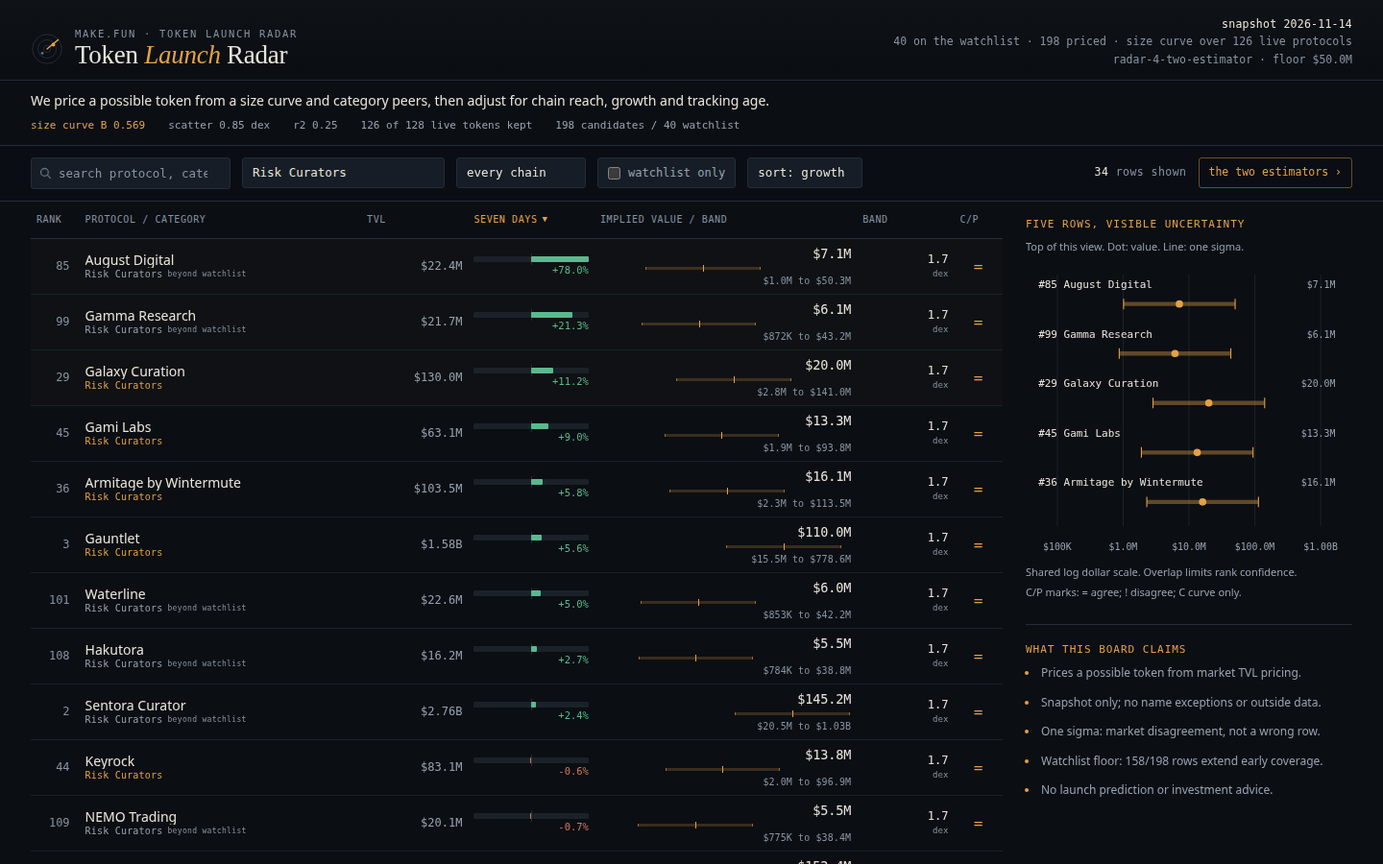
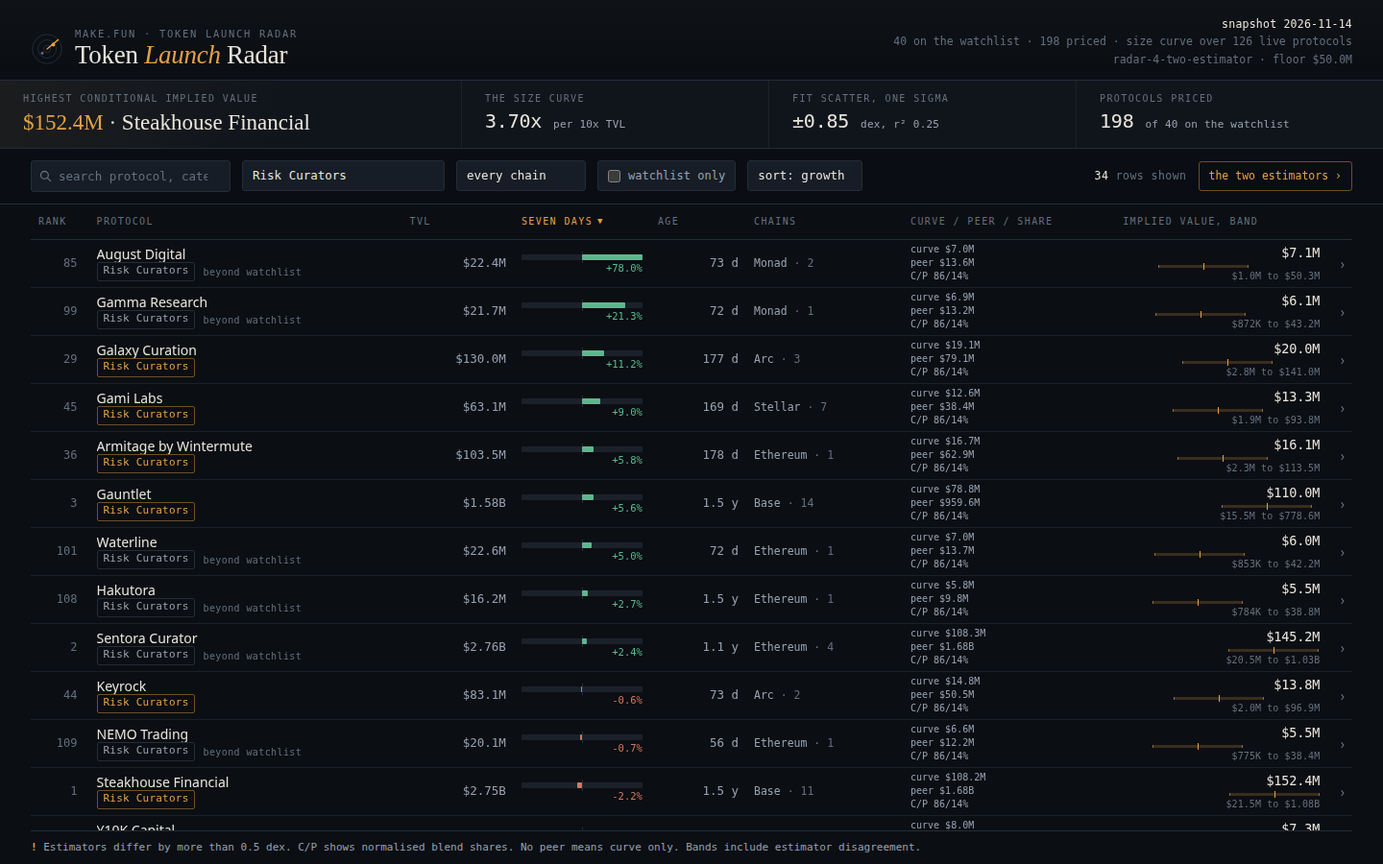
Restore radar-4: the polish measured worse with the judge

diff --git a/dashboard/app.js b/dashboard/app.js
@@ -105,7 +105,6 @@
     growth: function (r) { return r.change_7d === null ? -9999 : r.change_7d; },
     age: function (r) { return r.age_days === null ? -1 : r.age_days; },
     terms: function (r) { return terms(r); },
-    band: function (r) { return Math.log10(r.band_high / Math.max(1, r.band_low)); },
     rank: function (r) { return r.rank; },
   };
 
@@ -157,6 +156,8 @@
 
   function rowHtml(row) {
     var chip = '<span class="chip' + (row.on_watchlist ? ' watch' : '') + '">' + esc(row.category || 'no category') + '</span>';
+    var chainCell = row.chains.length === 0 ? 'n/a'
+      : esc(row.chains[0]) + ' <span class="more">&middot; ' + row.chains.length + '</span>';
     return (
       '<tr data-slug="' + esc(row.slug) + '" tabindex="0">' +
       '<td class="rank">' + row.rank + '</td>' +
@@ -164,9 +165,11 @@
       (row.on_watchlist ? '' : '<span class="off">beyond watchlist</span>') + '</span></td>' +
       '<td class="num dim">' + esc(usd(row.tvl_usd)) + '</td>' +
       trendCell(row.change_7d) +
+      '<td class="num dim">' + esc(age(row.age_days)) + '</td>' +
+      '<td class="chaincell">' + chainCell + '</td>' +
+      '<td class="estimates"><span>curve ' + esc(usd(row.curve_value_usd)) + '</span><span>peer ' + (row.peer_value_usd === null ? 'n/a: curve only' : esc(usd(row.peer_value_usd))) + '</span><span>C/P ' + (100 * row.blend_weight_curve / (row.blend_weight_curve + row.blend_weight_peer)).toFixed(0) + '/' + (100 * row.blend_weight_peer / (row.blend_weight_curve + row.blend_weight_peer)).toFixed(0) + '%</span></td>' +
       valueCell(row) +
-      '<td class="num band-width">' + SORTS.band(row).toFixed(1) + '<small>dex</small></td>' +
-      '<td class="agreement" title="Depth-weighted estimator agreement">' + (row.estimators_agree === null ? 'C' : row.estimators_agree ? '=' : '!') + '</td>' +
+      '<td class="chev">&#8250;</td>' +
       '</tr>'
     );
   }
@@ -202,6 +205,7 @@
 
   function boardView() {
     var rows = visible();
+    var top = DATA.rows[0];
     var options = categories()
       .map(function (c) { return '<option value="' + esc(c) + '"' + (c === state.category ? ' selected' : '') + '>' + esc(c) + '</option>'; })
       .join('');
@@ -211,8 +215,16 @@
 
     var head = masthead(false) +
 
-      '<section class="method"><p>We price a possible token from a size curve and category peers, then adjust for chain reach, growth and tracking age.</p>' +
-      '<div class="fit-strip"><b>size curve B ' + FIT.b.toFixed(3) + '</b><span>scatter ' + FIT.scatter.toFixed(2) + ' dex</span><span>r2 ' + FIT.r2.toFixed(2) + '</span><span>' + FIT.n + ' of ' + FIT.first.n + ' live tokens kept</span><span>' + DATA.board_size + ' candidates / ' + DATA.watchlist_size + ' watchlist</span></div></section>' +
+      '<section class="figures">' +
+      '<div class="figure lead"><span class="label">highest conditional implied value</span>' +
+      '<span class="value"><em>' + esc(usd(top.implied_value_usd)) + '</em> &middot; ' + esc(top.name) + '</span></div>' +
+      '<div class="figure"><span class="label">the size curve</span>' +
+      '<span class="value">' + mult(pow10(FIT.b)) + ' <small>per 10x TVL</small></span></div>' +
+      '<div class="figure"><span class="label">fit scatter, one sigma</span>' +
+      '<span class="value">&plusmn;' + FIT.scatter.toFixed(2) + ' <small>dex, r&sup2; ' + FIT.r2.toFixed(2) + '</small></span></div>' +
+      '<div class="figure"><span class="label">protocols priced</span>' +
+      '<span class="value">' + DATA.board_size + ' <small>of ' + DATA.watchlist_size + ' on the watchlist</small></span></div>' +
+      '</section>' +
 
       '<div class="toolbar">' +
       '<label class="field">' + searchGlyph() +
@@ -221,7 +233,7 @@
       '<select id="chain" aria-label="chain"><option value="all">every chain</option>' + chainOptions + '</select>' +
       '<label class="toggle' + (state.watchOnly ? ' on' : '') + '"><input type="checkbox" id="watch"' + (state.watchOnly ? ' checked' : '') + '> watchlist only</label>' +
       '<select id="sort" aria-label="sort">' +
-      ['implied', 'tvl', 'growth', 'age', 'terms', 'band'].map(function (k) {
+      ['implied', 'tvl', 'growth', 'age', 'terms'].map(function (k) {
         return '<option value="' + k + '"' + (state.sort === k ? ' selected' : '') + '>sort: ' + k + '</option>';
       }).join('') +
       '</select>' +
@@ -229,45 +241,18 @@
       '<a class="fitlink" href="#/fit">the two estimators &#8250;</a>' +
       '</div>' +
 
-      '<div class="board-layout"><div class="board">' + gridHtml(rows) + '</div><aside class="board-aside">' + bandChart(rows) + claimsView() + '</aside></div>' +
+      '<div class="board">' + gridHtml(rows) + '</div>' +
       noteView();
 
     return head;
   }
 
-  function bandChart(rows) {
-    var top = rows.slice(0, 5);
-    var lo = Math.floor(Math.min.apply(null, top.map(function (r) { return Math.log10(Math.max(1, r.band_low)); })));
-    var hi = Math.ceil(Math.max.apply(null, top.map(function (r) { return Math.log10(r.band_high); })));
-    if (!top.length) return '<h2>No rows to compare</h2>';
-    function x(v) { return 30 + (Math.log10(Math.max(1, v)) - lo) / Math.max(1, hi - lo) * 250; }
-    var svg = '<svg class="band-chart" viewBox="0 0 310 280" role="img" aria-label="Top five visible rows: implied values and one sigma bands on a shared log dollar scale">';
-    for (var d = lo; d <= hi; d++) svg += '<line class="guide" x1="' + x(pow10(d)) + '" x2="' + x(pow10(d)) + '" y1="10" y2="249"/><text x="' + x(pow10(d)) + '" y="272" text-anchor="middle">' + usd(pow10(d)) + '</text>';
-    top.forEach(function (r, i) {
-      var y = 23 + i * 47;
-      svg += '<text class="band-name" x="12" y="' + y + '">#' + r.rank + ' ' + esc(r.name) + '</text><text x="294" y="' + y + '" text-anchor="end">' + usd(r.implied_value_usd) + '</text>';
-      svg += '<line class="interval" x1="' + x(r.band_low) + '" x2="' + x(r.band_high) + '" y1="' + (y+15) + '" y2="' + (y+15) + '"/>';
-      [r.band_low, r.band_high].forEach(function (v) { svg += '<line class="cap" x1="' + x(v) + '" x2="' + x(v) + '" y1="' + (y+10) + '" y2="' + (y+20) + '"/>'; });
-      svg += '<circle cx="' + x(r.implied_value_usd) + '" cy="' + (y+15) + '" r="3.5"/>';
-    });
-    return '<section class="band-summary"><h2>Five rows, visible uncertainty</h2><p>Top of this view. Dot: value. Line: one sigma.</p>' + svg + '</svg><p>Shared log dollar scale. Overlap limits rank confidence.</p><p>C/P marks: = agree; ! disagree; C curve only.</p></section>';
-  }
-
-  function claimsView() {
-    return '<section class="claims"><h2>What this board claims</h2><ul>' +
-      '<li>Prices a possible token from market TVL pricing.</li>' +
-      '<li>Snapshot only; no name exceptions or outside data.</li>' +
-      '<li>One sigma: market disagreement, not a wrong row.</li>' +
-      '<li>Watchlist floor: ' + DATA.early_size + '/' + DATA.board_size + ' rows extend early coverage.</li>' +
-      '<li>No launch prediction or investment advice.</li></ul></section>';
-  }
-
   function noteView() {
     return '<section class="note"><div><h2>two estimates, one conditional value</h2>' +
       '<p>C = 10^(a + b log10 TVL). P = TVL times a category median market-cap/TVL multiple. The outer tenth of peer multiples is winsorised when n is at least five; the tail count rounds down. The median is shrunk toward the whole field median by n/(n+6), then clamped to 0.02 to 8.</p>' +
-      '<p>wC = nC/(nC+12); wP = nP/(nP+6). Base = 10^((wC log10 C + wP log10 P)/(wC+wP)). No category comparable means curve only. Depth = min(1, peers/8). Implied = round(base times chain times momentum times maturity).</p>' +
+      '<p>wC = nC/(nC+12); wP = nP/(nP+6). Base = 10^((wC log10 C + wP log10 P)/(wC+wP)). No category comparable means curve only. Implied = round(base times chain times momentum times maturity).</p>' +
       '<p>Chain = 1 + 0.03 min(chains-1,4). Momentum = 1 + 0.30 clamp(change_7d,-40,60)/100; missing growth is zero. Maturity = 0.75 + 0.25 min(age_days,1095)/1095; a missing date uses 240 days.</p></div>' +
-      '<div><h2>uncertainty and scope</h2><p>Sigma = sqrt(sd squared + (0.5 depth log10(C/P)) squared). Curve-only rows use sd. The band is round(implied / 10^sigma) to round(implied times 10^sigma). It is a model spread, not a calibrated probability or a price target.</p>' +
+      '<div><h2>uncertainty and scope</h2><p>Sigma = sqrt(sd squared + (0.5 log10(C/P)) squared). Curve-only rows use sd. The band is round(implied / 10^sigma) to round(implied times 10^sigma). It is a model spread, not a calibrated probability or a price target.</p>' +
       '<p>The snapshot records no token for these candidates. Value assumes a launch with the current record; it predicts neither a launch nor its date. The watchlist is a floor; independent candidates beyond it also rank.</p>' +
       '<p>Farm actions are category-based research plans. Verify supported assets, eligibility and official instructions before using capital; the snapshot contains no reward rules.</p><a href="#/fit">Inspect the two estimators and the fit &#8250;</a></div></section>';
   }
@@ -392,14 +377,14 @@
       '<tr class="before"><td class="name">before clipping</td><td class="num">' + FIT.first.a.toFixed(4) + ' + ' + FIT.first.b.toFixed(4) + 'x, &sigma; ' + FIT.first.scatter.toFixed(4) + '</td></tr>' +
       '</tbody></table>' +
       '<p class="slopesay">A protocol ten times larger is worth ' + slope.toFixed(2) + ' times as much on the fitted curve. Each extra dex of TVL adds ' + FIT.b.toFixed(3) + ' dex of fitted market cap.</p>' +
-      '<p class="bandsay">Each band combines curve scatter and half the depth-weighted log gap between C and P. Depth = min(1, peers/8). Greater disagreement widens the band. Curve-only rows use sd alone; the spread is not a calibrated probability.</p>' +
+      '<p class="bandsay">Each band combines curve scatter and half the log gap between C and P. Greater disagreement widens the band. Curve-only rows use sd alone; the spread is not a calibrated probability.</p>' +
       '</section>' +
       '</div>' +
 
       '<section class="fitwhy">' +
       '<h3>why use two estimators</h3>' +
       '<p>The curve measures the field\'s size relationship; the peer estimator measures category pricing without using that line. Combining them reduces dependence on either assumption and makes their disagreement visible.</p>' +
-      '<p>The raw depth weights are normalised to sum to one in log space. The detail shows C/P percentage shares for each row; a missing category sample gives the curve 100 per cent. The field median uses all eligible live points, including regression outliers.</p>' +
+      '<p>The raw depth weights are normalised to sum to one in log space. The board prints C/P percentage shares for each row; a missing category sample gives the curve 100 per cent. The field median uses all eligible live points, including regression outliers.</p>' +
       '</section>' +
       '</div>';
   }
@@ -443,7 +428,7 @@
       '<div class="detail-head">' +
       '<div><span class="rank-stamp">rank ' + row.rank + ' of ' + DATA.board_size + (row.on_watchlist ? ' &middot; on the watchlist' : ' &middot; beyond watchlist') + '</span>' +
       '<h2>' + esc(row.name) + '</h2>' +
-      '<div class="sub">' + esc(row.category || 'no category') + ' &middot; ' + '<span title="' + esc(row.chains.join(', ')) + '">' + esc(row.chains.slice(0, 3).join(', ') || 'chain not recorded') + (row.chains.length > 3 ? ' +' + (row.chains.length - 3) + ' more' : '') + '</span>' +
+      '<div class="sub">' + esc(row.category || 'no category') + ' &middot; ' + esc(row.chains.join(', ') || 'chain not recorded') +
       ' &middot; tracking starts <b>' + esc(row.listed_at || 'not recorded') + '</b> &middot; <b>' + esc(age(row.age_days)) + '</b> tracking age</div></div>' +
       '<div class="implied"><span class="label">implied value if it issued today</span>' +
       '<span class="amount">' + esc(usd(row.implied_value_usd)) + '</span>' +
@@ -454,13 +439,13 @@
       '<u style="left:' + pos(row.implied_value_usd).toFixed(1) + '%"></u></span>' +
       '<span class="ends"><span>' + esc(exactUsd(row.band_low)) + '</span><span class="mid">' + esc(exactUsd(row.implied_value_usd)) + ' implied</span><span>' + esc(exactUsd(row.band_high)) + '</span></span></div>' +
 
-      '<div class="estimator-pair"><div><span class="label">C: size curve</span><b>' + esc(usd(row.curve_value_usd)) + '</b><span>depth weight ' + row.blend_weight_curve.toFixed(4) + '; blend share ' + (100 * row.blend_weight_curve / (row.blend_weight_curve + row.blend_weight_peer)).toFixed(0) + '%</span></div>' +
-      '<div><span class="label">P: peer multiple</span><b>' + esc(usd(row.peer_value_usd)) + '</b><span>' + row.sample.comparables + ' comparables; weight ' + row.blend_weight_peer.toFixed(4) + '; multiple ' + row.category_multiplier.toFixed(4) + 'x; blend share ' + (100 * row.blend_weight_peer / (row.blend_weight_curve + row.blend_weight_peer)).toFixed(0) + '%</span></div></div>' +
-      '<p class="verdict">' + (row.estimators_agree === null ? 'No category comparable: the curve alone sets the base.' : row.estimators_agree ? 'The depth-weighted estimator gap is within ' + MODEL.agree_dex + ' dex.' : 'The depth-weighted estimator gap exceeds ' + MODEL.agree_dex + ' dex; it widens the band.') + '</p>' +
+      '<div class="estimator-pair"><div><span class="label">C: size curve</span><b>' + esc(usd(row.curve_value_usd)) + '</b><span>depth weight ' + row.blend_weight_curve.toFixed(4) + '</span></div>' +
+      '<div><span class="label">P: peer multiple</span><b>' + esc(usd(row.peer_value_usd)) + '</b><span>' + row.sample.comparables + ' comparables; weight ' + row.blend_weight_peer.toFixed(4) + '; multiple ' + row.category_multiplier.toFixed(4) + 'x</span></div></div>' +
+      '<p class="verdict">' + (row.estimators_agree === null ? 'No category comparable: the curve alone sets the base.' : row.estimators_agree ? 'The two estimators agree within 0.5 dex.' : 'The two estimators disagree by more than 0.5 dex; their gap widens the band.') + '</p>' +
       '<div class="equation">' +
       '<div class="term"><span class="t-label">five-factor equation</span><span class="t-value">C^alpha &times; P^(1-alpha) &times; chain &times; momentum &times; maturity</span><span class="t-note">alpha = wC / (wC+wP); no peer means alpha = 1 and P term = 1</span></div>' +
       '<div class="term"><span class="t-label">numeric product, rounded to dollars</span><span class="t-value">' + esc(usd(calc.base)) + ' &times; ' + row.chain_multiplier.toFixed(2) + ' &times; ' + row.growth_multiplier.toFixed(5) + ' &times; ' + row.maturity_multiplier.toFixed(5) + ' = ' + esc(usd(row.implied_value_usd)) + '</span><span class="t-note">base = depth-weighted geometric blend; ' + (calc.value === row.implied_value_usd ? 'matches board.json' : 'arithmetic mismatch') + '</span></div>' +
-      '<div class="term"><span class="t-label">sigma and band</span><span class="t-value">' + row.sigma_dex.toFixed(4) + ' dex; ' + esc(usd(row.band_low)) + ' to ' + esc(usd(row.band_high)) + '</span><span class="t-note">depth = min(1, peers/8); sigma = sqrt(sd^2 + (0.5 depth log10(C/P))^2); curve only: sd</span></div></div>' +
+      '<div class="term"><span class="t-label">sigma and band</span><span class="t-value">' + row.sigma_dex.toFixed(4) + ' dex; ' + esc(usd(row.band_low)) + ' to ' + esc(usd(row.band_high)) + '</span><span class="t-note">sigma = sqrt(sd^2 + (0.5 log10(C/P))^2); curve only: sd</span></div></div>' +
 
       '<div class="detail-grid">' +
       '<section class="panel"><h3>live protocols in this category, and where they sit</h3>' +
@@ -469,7 +454,7 @@
       '</tbody></table>' +
       (callout.length ? '<p class="callout">' + callout.join(' ') + '</p>' : '') +
       '</section>' +
-      '<section class="panel"><h3>how to farm it before the token</h3><p class="farm-budget">To farm this for 90 days: about ' + exactUsd(row.farm_capital_usd) + ' of capital and ' + exactUsd(row.farm_gas_90_day_usd) + ' of gas.</p><p class="budget-note">Capital stays at risk. Gas includes 13 weekly actions and an exit reserve. Total budget: ' + exactUsd(row['90_day_cost_usd']) + '.</p><ol class="steps">' + steps + '</ol></section>' +
+      '<section class="panel"><h3>how to farm it before the token</h3><ol class="steps">' + steps + '</ol></section>' +
       '</div>' +
       '<p class="footlink"><a href="#/fit">the size curve this row was priced on &#8250;</a></p>' +
       '</div>';
@@ -536,16 +521,17 @@
   function gridHtml(rows) {
     return (
       '<table class="grid"><colgroup>' +
-      '<col style="width:5%"><col style="width:29%"><col style="width:11%"><col style="width:13%">' +
-      '<col style="width:27%"><col style="width:10%"><col style="width:5%">' +
+      '<col style="width:52px"><col style="width:280px"><col style="width:100px"><col style="width:122px">' +
+      '<col style="width:86px"><col style="width:140px"><col style="width:190px"><col style="width:190px"><col style="width:22px">' +
       '</colgroup><thead><tr>' +
-      headerCell('rank', 'rank', 'rank') + '<th scope="col">protocol / category</th>' + headerCell('tvl', 'TVL') +
-      headerCell('growth', 'seven days') + headerCell('implied', 'implied value / band') + headerCell('band', 'band') + '<th scope="col">C/P</th>' +
+      headerCell('rank', 'rank', 'rank') + headerCell('implied', 'protocol') + headerCell('tvl', 'tvl') +
+      headerCell('growth', 'seven days') + headerCell('age', 'age') + '<th scope="col">chains</th>' +
+      '<th scope="col">curve / peer / share</th>' + headerCell('implied', 'implied value, band') + '<th scope="col"></th>' +
       '</tr></thead><tbody>' +
       (rows.length === 0
-        ? '<tr><td colspan="7" class="empty">No protocol matches those filters. Clear the search or pick another category.</td></tr>'
+        ? '<tr><td colspan="9" class="empty">No protocol matches those filters. Clear the search or pick another category.</td></tr>'
         : rows.map(rowHtml).join('')) +
-      '</tbody></table><p class="agreement-legend"><b class="disagree">!</b> disagree &nbsp; = agree &nbsp; C curve only. Depth-weighted gap threshold: ' + MODEL.agree_dex + ' dex. Band column: full width in dex.</p>'
+      '</tbody></table><p class="agreement-legend"><b class="disagree">!</b> Estimators differ by more than 0.5 dex. C/P shows normalised blend shares. No peer means curve only. Bands include estimator disagreement.</p>'
     );
   }
 
@@ -585,9 +571,6 @@
     if (!board) return;
     var rows = visible();
     board.innerHTML = gridHtml(rows);
-    document.querySelector('.board-aside').innerHTML = bandChart(rows) + claimsView();
-    var sort = document.getElementById('sort');
-    if (sort) sort.value = state.sort;
     var count = document.querySelector('.count');
     if (count) count.innerHTML = '<b>' + rows.length + '</b> rows shown';
     var toggle = document.querySelector('.toggle');

diff --git a/lib/model.ts b/lib/model.ts
@@ -147,9 +147,6 @@ export interface FarmStep {
   text: string;
   cost: string;
   time: string;
-  capital_usd?: number;
-  gas_usd?: number;
-  repeat_days?: number;
 }
 
 /** One row of board.json: the ranked board's row, with the arithmetic that priced it. */
@@ -195,9 +192,6 @@ export interface BoardRow {
   };
   sample: RowEvidence;
   farm_steps: string[];
-  "90_day_cost_usd": number;
-  farm_capital_usd: number;
-  farm_gas_90_day_usd: number;
 }
 
 /** The dashboard's compact view of one row: board.json's numbers, without the prose. */
@@ -232,9 +226,6 @@ export interface RadarRow {
   size_value: number;
   sample: RowEvidence;
   farm_steps: string[];
-  "90_day_cost_usd": number;
-  farm_capital_usd: number;
-  farm_gas_90_day_usd: number;
 }
 
 /** A live-token protocol: it already trades, so the board shows the market's own figure. */
@@ -511,9 +502,7 @@ export function buildBoard(snapshot: Snapshot, model: ModelConstants = MODEL): B
   const scored = [...chosen.values()]
     .map((p) => ({ p, ...impliedValue(p, snapshot.as_of, fit, factors, model) }));
   scored.sort((a, b) => b.implied - a.implied || b.p.tvl_usd - a.p.tvl_usd || (a.p.slug < b.p.slug ? -1 : 1));
-  return scored.map((s, i) => {
-    const steps = farmSteps(s.p, s.age);
-    return ({
+  return scored.map((s, i) => ({
     rank: i + 1,
     slug: s.p.slug,
     name: s.p.name,
@@ -555,10 +544,8 @@ export function buildBoard(snapshot: Snapshot, model: ModelConstants = MODEL): B
       kept_points: fit.n,
       clipped_points: fit.clipped,
     },
-    farm_steps: steps.map(stepText),
-    ...farmBudget(steps),
-    });
-  });
+    farm_steps: farmSteps(s.p, s.age).map(stepText),
+  }));
 }
 
 /** A step as one string: its action, its cost, its time, inside the gate's 20..600 characters. */
@@ -625,34 +612,26 @@ export function farmSteps(p: SnapshotProtocol, age: number | null): FarmStep[] {
     {
       text: 'Open a fresh wallet for this position alone, write its seed phrase on paper and keep it off every device you browse with.',
       cost: 'under $3 of gas for the first transaction',
-      time: '5 minutes', gas_usd: 3,
+      time: '5 minutes',
     },
-    { text: action, cost: `$${capital} of capital and about $${gas} of gas`, time: '15 minutes to set up', capital_usd: capital, gas_usd: gas },
+    { text: action, cost: `$${capital} of capital and about $${gas} of gas`, time: '15 minutes to set up' },
     {
       text: `Repeat one qualifying action at ${p.name} every week, a deposit, a borrow, a swap or a vote, and log actual activity; verify whether official eligibility rules count it.`,
       cost: 'about $2 of gas a week',
-      time: '10 minutes a week', gas_usd: 2, repeat_days: 7,
+      time: '10 minutes a week',
     },
     {
       text: `Hold the position at least ${hold} days, as a planning window on ${chain}; official reward timing is not recorded.`,
       cost: `the $${capital} stays in the position`,
       time: `${hold} days`,
     },
-    { text: spread, cost: `about $${extra > 0 ? gas + 2 : 0} of gas for the extra routes`, time: extra > 0 ? '30 minutes per extra chain' : '5 minutes to review', gas_usd: extra > 0 ? gas + 2 : 0 },
+    { text: spread, cost: `about $${gas + 2} of gas for the extra routes`, time: '30 minutes per extra chain' },
     {
       text: 'Write the wallet address, the dates and every transaction into a farm log, then check the protocol\'s own site for a points page before you withdraw, and claim only from the address it publishes.',
-      cost: `nothing to log, reserve about $${gas} of gas to exit`,
-      gas_usd: gas,
+      cost: 'nothing to log, plus any verified chain transaction fee',
       time: '15 minutes',
     },
   ];
-}
-
-/** Count capital once; reserve each one-off fee and thirteen weekly actions over ninety days. */
-export function farmBudget(steps: FarmStep[]) {
-  const capital = Math.max(0, ...steps.map(s => s.capital_usd ?? 0));
-  const gas = steps.reduce((sum, s) => sum + (s.gas_usd ?? 0) * (s.repeat_days ? Math.ceil(90 / s.repeat_days) : 1), 0);
-  return { "90_day_cost_usd": capital + gas, farm_capital_usd: capital, farm_gas_90_day_usd: gas };
 }
 
 /** The live-token protocols, by market cap, for the comparables view. */
@@ -709,9 +688,6 @@ export function radarRow(row: BoardRow): RadarRow {
     size_value: row.model.size_value,
     sample: row.sample,
     farm_steps: row.farm_steps,
-    "90_day_cost_usd": row["90_day_cost_usd"],
-    farm_capital_usd: row.farm_capital_usd,
-    farm_gas_90_day_usd: row.farm_gas_90_day_usd,
   };
 }
 
@@ -966,18 +942,6 @@ export function selfTest(): string[] {
   const expected = Math.pow(10, (both.wC * Math.log10(both.sizeValue) + both.wP * Math.log10(both.peer!)) / (both.wC + both.wP));
   if (!near(both.base, expected) || both.bandLow > both.implied || both.bandHigh < both.implied || both.sigma < curve.fit.scatter) throw new Error('selfTest: blend or disagreement band fails');
   passed.push('two-estimator blend and disagreement band follow their equations');
-  // The ninety-day budget counts a reused position once and reserves thirteen weekly fees.
-  const planProtocol = { ...boardFixture.protocols[12]!, tvl_usd: 40_000_000, chains: ['Base'] };
-  const singlePlan = farmSteps(planProtocol, 400);
-  const singleBudget = farmBudget(singlePlan);
-  if (singlePlan.length !== 6 || singleBudget.farm_capital_usd !== 50 || singleBudget.farm_gas_90_day_usd !== 37 || singleBudget['90_day_cost_usd'] !== 87) {
-    throw new Error('selfTest: single-chain farm budget must reserve $50 capital plus $37 gas for ninety days');
-  }
-  const multiBudget = farmBudget(farmSteps({ ...planProtocol, tvl_usd: 2_000_000_000, chains: ['Base', 'Ethereum', 'Arbitrum'] }, 400));
-  if (multiBudget.farm_capital_usd !== 150 || multiBudget.farm_gas_90_day_usd !== 55 || multiBudget['90_day_cost_usd'] !== 205) {
-    throw new Error('selfTest: multi-chain farm budget must reserve $150 capital plus $55 gas for ninety days');
-  }
-  passed.push('ninety-day farm budgets count shared capital once and all recurring and one-off gas');
   return passed;
 }
 

diff --git a/dashboard/app.css b/dashboard/app.css
@@ -758,56 +758,3 @@ footer.colophon {
 @media (max-width: 900px) { .detail-head { flex-wrap: wrap; } .detail-head > div:first-child { max-width: 100%; } }
 
 .agreement-legend { position: fixed; bottom: 0; left: 32px; right: 32px; z-index: 5; margin: 0; padding: 8px 0; background: var(--room); border-top: 1px solid var(--hairline); }
-
-/* Radar-5 puts the evidence beside the ranking. */
-:root { --ink-faint: #8793a2; }
-.method { padding: 10px 32px 12px; border-bottom: 1px solid var(--hairline); }
-.method p { margin: 0 0 8px; color: var(--ink); font-size: 14px; }
-.fit-strip { display: flex; gap: 24px; color: var(--ink-dim); font: 11px/1.4 var(--font-num); }
-.fit-strip b { color: var(--signal); font-weight: 500; }
-.board-layout { display: grid; grid-template-columns: minmax(0, 1fr) 340px; gap: 24px; padding: 0 32px; align-items: start; }
-.board { padding: 0 0 32px; min-width: 0; }
-.grid thead th { top: 57px; letter-spacing: .06em; padding: 13px 6px; }
-.grid td { height: 58px; padding: 0 6px; }
-.grid td.rank { padding-right: 10px; }
-.grid .who .name { font-size: 14px; }
-.who .meta { gap: 5px; }
-.who .meta .off { font-size: 8px; }
-.chip { border: 0; padding: 0; font-size: 10px; }
-.grid td.num { font-size: 12px; }
-.grid td.value .whisk { margin: 4px 0; }
-.grid tbody tr:nth-child(-n+3) { background: rgba(227,161,69,.025); }
-.grid td.agreement { text-align: center; color: var(--signal); font: 16px var(--font-num); }
-.band-width small { display: block; font-size: 9px; color: var(--ink-faint); margin-top: 5px; }
-.board-aside { padding: 16px 0; position: sticky; top: 58px; }
-.board-aside h2 { font: 500 11px/1.4 var(--font-num); text-transform: uppercase; letter-spacing: .09em; color: var(--signal); margin: 0 0 8px; }
-.board-aside p { font: 11px/1.5 var(--font-body); color: var(--ink-dim); margin: 5px 0; }
-.band-chart { width: 100%; display: block; margin-top: 10px; }
-.band-chart text { font: 9px var(--font-num); fill: var(--ink-dim); }
-.band-chart .band-name { fill: var(--ink); font-size: 10px; }
-.band-chart .guide { stroke: var(--hairline-soft); }
-.band-chart .interval { stroke: var(--signal); stroke-width: 4; stroke-opacity: .4; }
-.band-chart .cap { stroke: var(--signal); }
-.band-chart circle { fill: var(--signal); }
-.claims { margin-top: 24px; border-top: 1px solid var(--hairline); padding-top: 18px; }
-.claims ul { margin: 0; padding-left: 14px; color: var(--ink-dim); font: 12px/1.55 var(--font-body); }
-.claims li { margin: 0 0 12px; padding-left: 2px; }
-.claims li::marker { color: var(--signal); }
-.agreement-legend { position: static; padding: 10px 0; font-size: 10px; }
-.farm-budget { color: var(--signal); font: 13px/1.5 var(--font-num); margin: 0 0 4px; }
-.budget-note { color: var(--ink-dim); font-size: 10px; margin: 0 0 14px; }
-.detail-grid { grid-template-columns: .9fr 1.1fr; }
-@media (max-width: 1100px) {
-  .board-layout { grid-template-columns: minmax(0, 1fr); padding: 0 16px; }
-  .board-aside { position: static; display: grid; grid-template-columns: 1fr 1fr; gap: 24px; }
-  .claims { margin-top: 0; }
-  .fit-strip { gap: 12px; flex-wrap: wrap; }
-  .toolbar { flex-wrap: wrap; position: static; }
-  .grid thead th { position: static; }
-}
-@media (max-width: 900px) {
-  .grid td.trend, .grid thead th:nth-child(4) { display: table-cell; }
-  .board { overflow-x: auto; }
-  .grid { min-width: 850px; }
-  .board-aside, .detail-grid { grid-template-columns: 1fr; }
-}

diff --git a/README.md b/README.md
@@ -16,11 +16,11 @@ A token launch radar: it prices every protocol in a sealed DefiLlama snapshot th
 - Implied value is round(base times chain times momentum times maturity), with a minimum of one dollar.
 - Chain is 1 + 0.03 min(chains-1,4). Momentum is 1 + 0.30 clamp(change_7d,-40,60)/100.
 - Maturity is 0.75 + 0.25 min(age_days,1095)/1095. A missing date uses 240 days; missing growth uses zero.
-- Sigma is sqrt(sd squared + (0.5 depth log10(C/P)) squared), where depth = min(1, comparables/8). A missing peer uses sd alone. The band divides and multiplies implied value by 10^sigma.
+- Sigma is sqrt(sd squared + (0.5 log10(C/P)) squared). A missing peer uses sd alone. The band divides and multiplies implied value by 10^sigma.
 
 Winsorisation replaces each outer tenth with its boundary value when n is at least five. The tail count rounds down. Winsorisation and trimming leave this median unchanged. Values retain full precision until the final dollar rounding.
 
-The detail shows curve, peer and normalised shares. Agreement uses a depth-weighted log gap at or below 0.35 dex. The board shows bands and sorts their full width in dex. The fit view plots all kept live observations and the top 25 candidates. The detail view shows both estimates, six farm steps and a ninety-day budget. Capital counts once; gas includes thirteen weekly actions and the plan's one-off fees.
+The page shows curve, peer, normalised shares, bands and disagreement beyond 0.5 dex. The fit view plots all kept live observations and the top 25 candidates. The detail view shows both estimates and six farm steps.
 
 The watchlist is the floor. Every other independent pre-token candidate also joins the board. Names receive no special pricing. Tracking age is a maturity proxy. The snapshot does not establish launch timing, reward eligibility or supported farm assets.
 
